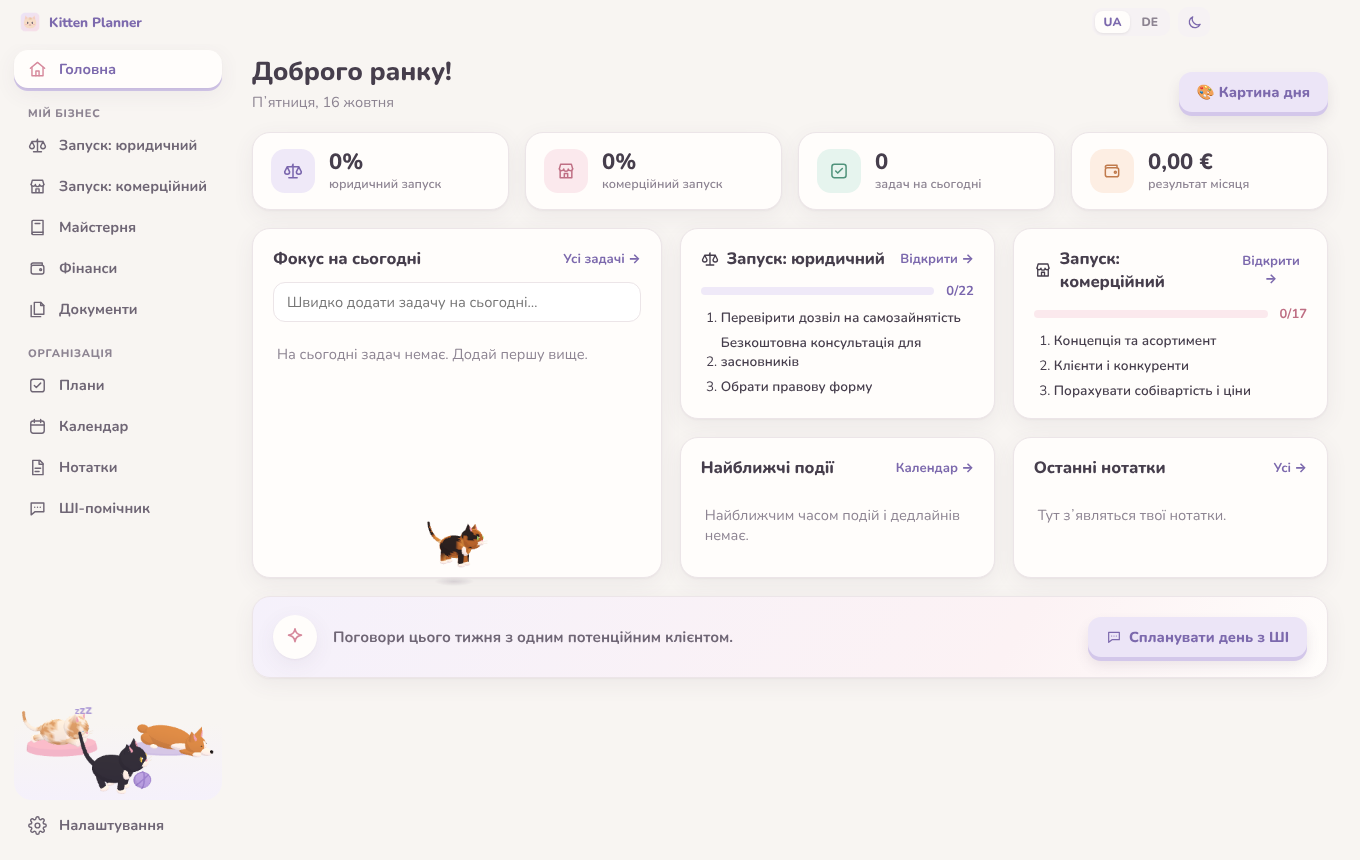
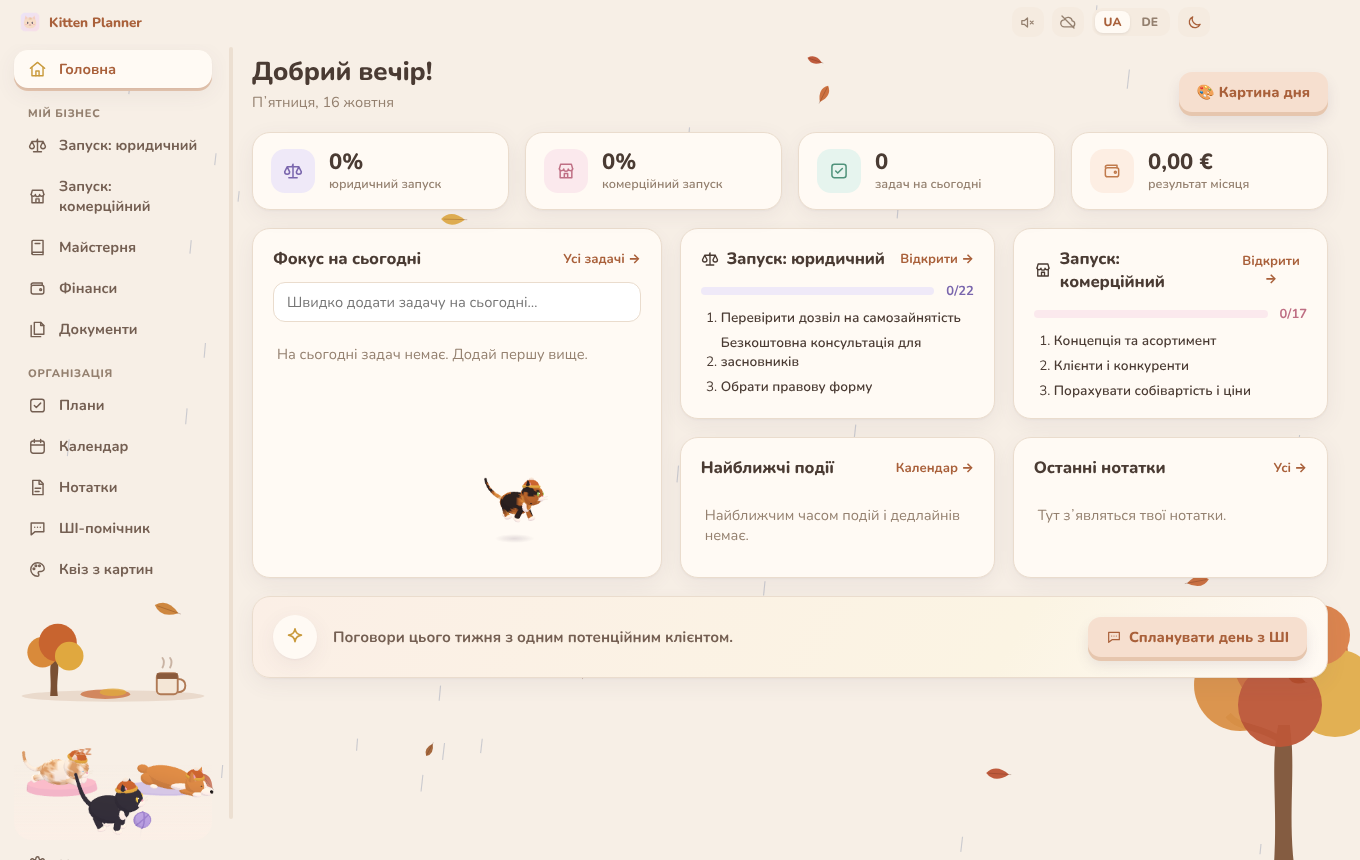
Move personal data into a CI secret; polish the README
- The birthday date and the greeting's title and closing line now live in the
  PERSONAL_CONFIG repository secret; scripts/personal-config.js writes them into
  src/renderer/js/personal.js during the Windows and Pages builds. The committed
  file holds neutral placeholders (no automatic birthday, generic greeting).
- README: live demo link, highlights, seasons and quiz rows, phone and birthday
  screenshots, architecture diagram, secrets section, updated project structure.

Claude-Session: https://claude.ai/code/session_015JS576bg2WmREZYvXjP7jz

diff --git a/src/renderer/js/seasons/season.js b/src/renderer/js/seasons/season.js
@@ -1,6 +1,8 @@
 // Seasonal looks: which season is active (automatic by date or chosen in Settings), its colour
 // grading (css/seasons.css via html[data-season]) and which ambient effects it offers.
 
+import { PERSONAL } from '../personal.js';
+
 export const SEASONS = ['autumn', 'halloween', 'winter', 'christmas', 'spring', 'summer', 'birthday'];
 
 /** Effects each season can show; every one has its own on/off switch in Settings. */
@@ -27,13 +29,14 @@ export const SEASON_SOUND = {
   birthday: 'musicbox',
 };
 
-export const BIRTHDAY = { month: 11, day: 3 };
-
-/** Season for a local date key (YYYY-MM-DD) when Settings say "auto". */
-export function seasonForDate(key) {
+/**
+ * Season for a local date key (YYYY-MM-DD) when Settings say "auto". `birthday` is 'MM-DD'
+ * (from personal.js; empty means the birthday look only appears when chosen by hand).
+ */
+export function seasonForDate(key, birthday = PERSONAL.birthday) {
   const m = Number(key.slice(5, 7));
   const d = Number(key.slice(8, 10));
-  if (m === BIRTHDAY.month && d === BIRTHDAY.day) return 'birthday';
+  if (birthday && key.slice(5) === birthday) return 'birthday';
   if ((m === 10 && d >= 24) || (m === 11 && d <= 1)) return 'halloween';
   if (m === 12 || (m === 1 && d <= 6)) return 'christmas';
   if (m <= 2) return 'winter';
@@ -43,10 +46,10 @@ export function seasonForDate(key) {
 }
 
 /** 'auto' | a season | 'none' → the season actually shown (or null for the plain look). */
-export function resolveSeason(choice, todayKey) {
+export function resolveSeason(choice, todayKey, birthday) {
   if (choice === 'none') return null;
   if (SEASONS.includes(choice)) return choice;
-  return seasonForDate(todayKey);
+  return seasonForDate(todayKey, birthday);
 }
 
 /** Effects that are both offered by the season and switched on. */

diff --git a/test/unit/seasons.test.js b/test/unit/seasons.test.js
@@ -3,7 +3,7 @@ const assert = require('node:assert/strict');
 
 const load = () => import('../../src/renderer/js/seasons/season.js');
 
-test('automatic season follows the calendar, with Halloween, Christmas and her birthday', async () => {
+test('automatic season follows the calendar, with Halloween, Christmas and the configured birthday', async () => {
   const { seasonForDate } = await load();
   const cases = {
     '2026-10-16': 'autumn',
@@ -21,14 +21,18 @@ test('automatic season follows the calendar, with Halloween, Christmas and her b
     '2027-06-15': 'summer',
     '2027-09-01': 'autumn',
   };
-  for (const [day, season] of Object.entries(cases)) assert.equal(seasonForDate(day), season, day);
+  for (const [day, season] of Object.entries(cases)) assert.equal(seasonForDate(day, '11-03'), season, day);
+  // Without a configured birthday (the committed placeholder) that day is just autumn.
+  assert.equal(seasonForDate('2026-11-03', ''), 'autumn');
+  assert.equal(seasonForDate('2027-04-20', '04-20'), 'birthday');
 });
 
 test('manual choice and effect switches', async () => {
   const { resolveSeason, activeFx, SEASONS, SEASON_FX, SEASON_SOUND } = await load();
   assert.equal(resolveSeason('none', '2026-11-03'), null);
   assert.equal(resolveSeason('spring', '2026-11-03'), 'spring');
-  assert.equal(resolveSeason('auto', '2026-11-03'), 'birthday');
+  assert.equal(resolveSeason('auto', '2026-11-03', '11-03'), 'birthday');
+  assert.equal(resolveSeason('auto', '2026-11-03', ''), 'autumn');
   assert.deepEqual(activeFx('autumn', { rain: false }), ['leaves', 'decor']);
   assert.deepEqual(activeFx(null, {}), []);
   for (const s of SEASONS) {

diff --git a/src/renderer/js/seasons/birthday.js b/src/renderer/js/seasons/birthday.js
@@ -1,7 +1,9 @@
-// Birthday greeting (3 November): every pet says something, then the most important line.
+// Birthday greeting: every pet says something, then the most important line. The date, title and
+// closing line come from personal.js (injected from a repository secret at build time).
 // Shown automatically once per year on the day; can be reopened from the home page.
 import { h, modal } from '../ui.js';
-import { t } from '../i18n.js';
+import { t, tx } from '../i18n.js';
+import { PERSONAL } from '../personal.js';
 import { state, update } from '../state.js';
 import { seasonForDate } from './season.js';
 import { todayKey } from '../dates.js';
@@ -16,7 +18,7 @@ const VOICES = [
 
 export function showBirthday() {
   return modal({
-    title: t('bday.title'),
+    title: PERSONAL.title ? tx(PERSONAL.title) : t('bday.title'),
     width: 560,
     build: (close) =>
       h(
@@ -35,11 +37,13 @@ export function showBirthday() {
               h('div', {}, h('b', {}, t(`bday.name.${v.who}`)), h('div', {}, t(`bday.msg.${v.who}`))),
             ),
           ),
-          h(
-            'div',
-            { class: 'bday-line bday-love', style: { animationDelay: `${0.4 + VOICES.length * 0.7 + 0.4}s` } },
-            h('div', {}, t('bday.love')),
-          ),
+          PERSONAL.love
+            ? h(
+                'div',
+                { class: 'bday-line bday-love', style: { animationDelay: `${0.4 + VOICES.length * 0.7 + 0.4}s` } },
+                h('div', {}, tx(PERSONAL.love)),
+              )
+            : null,
         ),
         h(
           'div',

diff --git a/scripts/personal-config.js b/scripts/personal-config.js
@@ -1,0 +1,23 @@
+// Writes src/renderer/js/personal.js from the PERSONAL_CONFIG environment variable (a GitHub
+// Actions secret holding JSON: { "birthday": "MM-DD", "title": {uk, de}, "love": {uk, de} }).
+// Without the variable the committed neutral placeholders stay.
+const fs = require('node:fs');
+const path = require('node:path');
+
+const raw = process.env.PERSONAL_CONFIG;
+if (!raw) {
+  console.log('personal.js: PERSONAL_CONFIG not set, keeping placeholders');
+  process.exit(0);
+}
+const cfg = JSON.parse(raw);
+const text = (v) => (v && typeof v.uk === 'string' && typeof v.de === 'string' ? { uk: v.uk, de: v.de } : null);
+const birthday = /^\d{2}-\d{2}$/.test(cfg.birthday || '') ? cfg.birthday : '';
+const personal = { birthday, title: text(cfg.title), love: text(cfg.love) };
+
+const file = path.join(__dirname, '..', 'src', 'renderer', 'js', 'personal.js');
+const src = fs.readFileSync(file, 'utf8');
+const head = src.slice(0, src.indexOf('export const PERSONAL'));
+fs.writeFileSync(file, `${head}export const PERSONAL = ${JSON.stringify(personal, null, 2)};\n`);
+console.log(
+  `personal.js: birthday ${birthday ? 'set' : 'empty'}, title ${personal.title ? 'set' : 'generic'}, love ${personal.love ? 'set' : 'none'}`,
+);

diff --git a/src/renderer/js/locales/uk.js b/src/renderer/js/locales/uk.js
@@ -611,7 +611,7 @@ export default {
   'season.sound.fire': 'Тріск каміна',
   'season.sound.birds': 'Пташки й вітерець',
   'season.sound.musicbox': 'Музична скринька',
-  'bday.title': 'З днем народження, Сашенько! 🎉',
+  'bday.title': 'З днем народження! 🎉',
   'bday.lead': 'Сьогодні всі звірятка зібралися, щоб тебе привітати:',
   'bday.open': 'Привітання',
   'bday.thanks': 'Дякую, мої хороші! 💜',
@@ -625,5 +625,4 @@ export default {
   'bday.msg.gudzyk': 'Дарую тобі свій найкращий клубочок — хай усе в житті розмотується легко 🧶',
   'bday.msg.bublyk': 'Гав! Ти найкраща людина на світі — це офіційно, я перевірив 🐶',
   'bday.msg.auerilus': 'Біп-буп! Розрахунок завершено: твоя майстерня буде найзатишнішою в Кобурзі ✨',
-  'bday.love': 'Сашенько, моя принцесо, з днем народження! Ми будемо разом назавжди 💍',
 };

diff --git a/src/renderer/js/locales/de.js b/src/renderer/js/locales/de.js
@@ -616,7 +616,7 @@ export default {
   'season.sound.fire': 'Kaminknistern',
   'season.sound.birds': 'Vögel & Brise',
   'season.sound.musicbox': 'Spieluhr',
-  'bday.title': 'Alles Gute zum Geburtstag, Saschenka! 🎉',
+  'bday.title': 'Alles Gute zum Geburtstag! 🎉',
   'bday.lead': 'Heute haben sich alle Tierchen versammelt, um dir zu gratulieren:',
   'bday.open': 'Glückwünsche',
   'bday.thanks': 'Danke, ihr Lieben! 💜',
@@ -630,5 +630,4 @@ export default {
   'bday.msg.gudzyk': 'Ich schenke dir mein bestes Wollknäuel — möge sich im Leben alles leicht entwirren 🧶',
   'bday.msg.bublyk': 'Wuff! Du bist der beste Mensch der Welt — offiziell, ich hab’s geprüft 🐶',
   'bday.msg.auerilus': 'Piep-piep! Berechnung abgeschlossen: Deine Werkstatt wird die gemütlichste in Coburg ✨',
-  'bday.love': 'Saschenka, meine Prinzessin, alles Gute zum Geburtstag! Wir bleiben für immer zusammen 💍',
 };

diff --git a/src/renderer/js/personal.js b/src/renderer/js/personal.js
@@ -1,0 +1,11 @@
+// Personal touches for the person the app was made for: her birthday and the greeting's words.
+// The committed values are neutral placeholders. Release builds overwrite this file from the
+// PERSONAL_CONFIG repository secret (scripts/personal-config.js), so nothing private lives in the repo.
+export const PERSONAL = {
+  /** 'MM-DD', or '' for no automatic birthday look. */
+  birthday: '',
+  /** { uk, de } overrides for the greeting's title, or null for the generic one. */
+  title: null,
+  /** { uk, de } closing line of the greeting, or null to leave it out. */
+  love: null,
+};

diff --git a/test/e2e/app.spec.js b/test/e2e/app.spec.js
@@ -206,7 +206,8 @@ test('seasons, birthday greeting and painting quiz', async () => {
   await expect(page.locator('.season-garland svg')).toHaveCount(1);
   await page.selectOption('#season-select', 'birthday');
   await page.click('#season button:has-text("🎁")');
-  await expect(page.locator('.bday-line')).toHaveCount(6);
+  // Five pets; the closing line only exists when personal.js is filled from the secret.
+  await expect(page.locator('.bday-line')).toHaveCount(5);
   await page.waitForTimeout(5000);
   await snap(page, '13-birthday');
   await page.keyboard.press('Escape');

diff --git a/README.md b/README.md
@@ -3,7 +3,8 @@
 [![Build](https://github.com/kunstler-dev/kitten-planner/actions/workflows/build.yml/badge.svg)](https://github.com/kunstler-dev/kitten-planner/actions/workflows/build.yml)
 [![Release](https://img.shields.io/github/v/release/kunstler-dev/kitten-planner)](https://github.com/kunstler-dev/kitten-planner/releases/latest)
 [![License: MIT](https://img.shields.io/badge/license-MIT-lavender.svg)](LICENSE)
-![Platform](https://img.shields.io/badge/platform-Windows-blue)
+![Platform](<https://img.shields.io/badge/platform-Windows%20%7C%20iPhone%20(PWA)-blue>)
+[![Live demo](https://img.shields.io/badge/live%20demo-open%20in%20browser-ff9fb6)](https://kunstler-dev.github.io/kitten-planner/)
 
 A cozy but focused **Windows desktop workspace** for a founder opening a small
 **bookbinding workshop & souvenir shop** (handmade faux-leather notebooks and books) in
@@ -13,10 +14,31 @@ with invoice PDFs, a document archive, a planner with a **painting-of-the-day** 
 assistant with a little robot named **Auerilus** — and a **3D kitten** that follows your cursor,
 naps, purrs and jumps onto the buttons you are about to click.
 
-The interface is in **Ukrainian** with a one-click switch to **German**, in a light or dark theme.
-All data stays **on the local machine**.
+The same code also runs on the **phone** as an installable web app, and both devices stay in sync
+through the user's **own Google Drive** — no server in between.
+The interface is in **Ukrainian** with a one-click switch to **German**, in a light or dark theme,
+with seasonal looks (autumn rain and falling leaves, Halloween, Christmas, spring, summer).
+
+**▶ Try it in the browser: https://kunstler-dev.github.io/kitten-planner/** (data stays in your browser)
 
 ![Home](docs/screenshots/home.png)
+
+## Highlights
+
+- **One codebase, two platforms.** The Electron renderer is plain ES modules; on the phone the same files
+  are served from GitHub Pages and a browser implementation of the preload API (`window.api`: IndexedDB,
+  downloads, print-to-PDF, OAuth redirect) is swapped in at boot. No framework, no bundler.
+- **Serverless sync with a real merge.** Data lives in Drive's hidden `appDataFolder`; every sync is a
+  pure, unit-tested **three-way merge** (per record and per field) against the last synced snapshot, so
+  offline edits on both devices are combined instead of overwritten.
+- **Security by default.** Sandboxed renderer with context isolation and a strict CSP, a single preload
+  bridge, OAuth with PKCE on the desktop, API key and refresh token encrypted with `safeStorage`, path
+  validation for stored documents, OAuth client ids and personal data injected from CI secrets.
+- **Tested end to end.** Unit tests (`node:test`) for the store, merge, pricing, seasons and i18n
+  completeness; Playwright drives the real Electron app and the phone build (iPhone viewport, faked Drive).
+  CI builds the Windows `.exe`, publishes releases and deploys the phone version.
+- **Made with love.** A three.js kitten that jumps onto the button you are about to press, a robot
+  playing tag with it, a pet corner, ~470 paintings with stories and a quiz about them.
 
 ## Features
 
@@ -30,6 +52,8 @@ All data stays **on the local machine**.
 | **Plans · Calendar · Notes** | Goal-based task lists with progress, month calendar with events and deadlines from all sections, notes with colours, pinning and search.                                                                                                                                                                                                                                                                                                                                                                                                                                                          |
 | **AI assistant**             | Two modes: sign in to your own **ChatGPT account** inside the app (an isolated, persistent browser partition limited to chatgpt.com and its login providers), or use the OpenAI API with your own key (stored encrypted via Windows DPAPI, optional business context, answers can be saved as notes). The robot **Auerilus** lives in a little playground next to the chat and plays tag with the kitten.                                                                                                                                                                                         |
 | **Painting of the day**      | Every calendar day from October 2026 to the end of 2027 hides an easter egg: one of ~470 famous paintings (Old Masters to early modernism) with a bilingual story — style, how and where it was painted, its history and where it hangs today. Holidays and artists' birthdays get fitting pieces. Images are downloaded from Wikimedia Commons at build time (public-domain works only) and bundled into the `.exe`.                                                                                                                                                                             |
+| **Seasons**                  | Automatic by date or chosen by hand: autumn (rain, trees dropping leaves), Halloween, Christmas (snow, garland, a small tree), winter, spring and summer — each with its own colour grading for both themes, canvas effects behind the UI, 3D hats for the pets and optional synthesised ambience (WebAudio, off by default). A birthday look with a greeting from all the pets.                                                                                                                                                                                                                  |
+| **Painting quiz**            | "Who painted it?" and "Which one is theirs?" over the whole painting collection, with streaks and a synced best score.                                                                                                                                                                                                                                                                                                                                                                                                                                                                            |
 | **3D kitten**                | A small tortoiseshell toon kitten (three.js, built from primitives): calmly follows the cursor without getting in the way, **jumps onto the button you hover** while deciding where to go, falls asleep when the mouse rests, purrs with hearts when petted and plays with Auerilus in the AI tab. Never blocks clicks; falls back to a flat SVG kitten without WebGL. At the bottom of the sidebar a **pet corner** shows two more cats — Sefirka asleep on her cushion and tuxedo Gudsyk chasing a ball of yarn — and Bublyk the corgi dozing on his mat, who wakes up and wags when you hover. |
 
 |                                                                     |                                                         |
@@ -38,7 +62,31 @@ All data stays **on the local machine**.
 | ![Finance](docs/screenshots/finance.png)                            | ![German, dark theme](docs/screenshots/dark-german.png) |
 | ![Calendar with painting of the day](docs/screenshots/calendar.png) | ![AI tab with Auerilus](docs/screenshots/ai-tab.png)    |
 
+| Phone                                                          | Phone menu                                                               | Birthday greeting                                                             |
+| -------------------------------------------------------------- | ------------------------------------------------------------------------ | ----------------------------------------------------------------------------- |
+| <img src="docs/screenshots/phone.png" width="240" alt="Phone"> | <img src="docs/screenshots/phone-menu.png" width="240" alt="Phone menu"> | <img src="docs/screenshots/birthday.png" width="420" alt="Birthday greeting"> |
+
 <p align="center"><img src="docs/screenshots/pets.png" alt="Pet corner: Sefirka, Gudsyk and Bublyk the corgi" width="312"></p>
+
+## Architecture
+
+```mermaid
+flowchart LR
+  subgraph Desktop["Windows (Electron)"]
+    M["main process<br/>store · secrets · OpenAI · Google OAuth (PKCE)"]
+    P["preload<br/>window.api"]
+    R1["renderer<br/>views · kitten · seasons · sync engine"]
+    M <-- IPC --> P <--> R1
+  end
+  subgraph Phone["iPhone (PWA on GitHub Pages)"]
+    W["platform/web.js<br/>window.api: IndexedDB · OAuth redirect"]
+    R2["same renderer"]
+    W <--> R2
+  end
+  D[("Google Drive<br/>appDataFolder")]
+  R1 -- "three-way merge" --> D
+  R2 -- "three-way merge" --> D
+```
 
 ## Download
 
@@ -68,6 +116,19 @@ Computer and phone share their data through the user's **own Google Drive** (Set
 
 Setting it up needs a Google Cloud OAuth client — see [docs/google-sync.md](docs/google-sync.md).
 
+## Secrets & personal data
+
+Nothing private is committed. Build-time values come from repository secrets:
+
+| Secret                                                     | Used for                                                                                        |
+| ---------------------------------------------------------- | ----------------------------------------------------------------------------------------------- |
+| `GOOGLE_WEB_CLIENT_ID`                                     | phone sign-in (written into the Pages build)                                                    |
+| `GOOGLE_DESKTOP_CLIENT_ID`, `GOOGLE_DESKTOP_CLIENT_SECRET` | desktop sign-in (`scripts/google-config.js` → `src/google-config.json`)                         |
+| `PERSONAL_CONFIG`                                          | birthday date and greeting words (`scripts/personal-config.js` → `src/renderer/js/personal.js`) |
+
+`PERSONAL_CONFIG` is JSON: `{ "birthday": "MM-DD", "title": { "uk": "…", "de": "…" }, "love": { "uk": "…", "de": "…" } }`.
+Without it the app uses neutral placeholders (no automatic birthday, generic greeting).
+
 ## Tech stack
 
 - **Electron** (sandboxed renderer, context isolation, strict CSP, single preload bridge)
@@ -77,6 +138,7 @@ Setting it up needs a Google Cloud OAuth client — see [docs/google-sync.md](do
 - Tests: **node:test** (store, OpenAI streaming, price calculation, i18n completeness) and
   **Playwright** driving the real Electron app and the phone build (iPhone viewport, faked Google Drive) end-to-end
 - **GitHub Actions**: lint + format + unit + e2e on Linux, `.exe` build on `windows-latest`, release on `v*` tags
+  or a manual run, phone version deployed to **GitHub Pages**
 
 ## Project structure
 
@@ -98,9 +160,12 @@ src/renderer/
   js/data/art/       painting-of-the-day entries (uk + de), schedule and pinned dates
   js/sync/           Google Drive client, three-way merge, sync engine (shared by desktop and phone)
   js/platform/       browser implementation of window.api for the phone (IndexedDB, OAuth redirect)
+  js/seasons/        season rules (pure), canvas effects, WebAudio ambience, birthday greeting
+  js/personal.js     placeholders for personal data, filled from a secret in CI
+  js/views/          one module per section (incl. quiz.js)
+src/main/google.js   Google sign-in for the desktop (loopback + PKCE)
 scripts/fetch-art.js resolves painting images via the Wikipedia API and bundles them
 scripts/build-web.js builds the phone version into site/ (manifest, service worker) for GitHub Pages
-  js/views/          one module per section
 test/unit, test/e2e  node:test and Playwright suites
 ```
 

diff --git a/CLAUDE.md b/CLAUDE.md
@@ -57,7 +57,9 @@ bookbinding workshop + souvenir shop in Coburg (Bavaria, Germany).
   built with `buildCat()` from `kitten3d.js` and a corgi). Keep WebGL contexts few — the robot view is created once and reused.
 - Seasons (`js/seasons/`): `season.js` (pure: date → season, effects per season, pub/sub for outfits), `index.js`
   (applies `html[data-season]`, effects, sound), `fx.js` (canvas behind the UI + SVG decor), `sound.js` (WebAudio),
-  `birthday.js` (3 Nov card). Palettes in `css/seasons.css`; 3D hats in `outfits.js` (`setOutfit` on each view).
+  `birthday.js` (greeting card). **Personal data** (her birthday, the greeting's title and closing line)
+  lives only in the `PERSONAL_CONFIG` secret: `scripts/personal-config.js` writes it into `js/personal.js` in CI;
+  the committed file keeps neutral placeholders — never commit real names or dates. Palettes in `css/seasons.css`; 3D hats in `outfits.js` (`setOutfit` on each view).
   Season/effect/sound settings are device-only (`DEVICE_SETTINGS`). Painting quiz: `views/quiz.js`.
 - Kitten: `kitten.js` (behaviour state machine: follow / approach / crouch / jump / perched; sleep & purr),
   `kitten3d.js` (three.js toon cat, poses lerped per frame), `kitten-svg.js` (fallback). It must never block clicks

diff --git a/CHANGELOG.md b/CHANGELOG.md
@@ -12,7 +12,8 @@
 - **Seasons**: autumn, Halloween, winter, Christmas, spring and summer looks (automatic by date or chosen in
   Settings) with seasonal colours, falling leaves from trees, rain, snow, garland, petals, fireflies, bats and more —
   every effect can be switched off — plus hats for the kitten and the pets and an optional ambient sound.
-- **3 November**: a birthday look and a greeting from all the pets.
+- **Her birthday**: a birthday look and a greeting from all the pets (date and words injected from a
+  repository secret, see `scripts/personal-config.js`).
 - **Painting quiz**: guess the artist or the painting across all 479 calendar paintings.
 - Fixed a stray "null" under the commercial roadmap summary.
 
